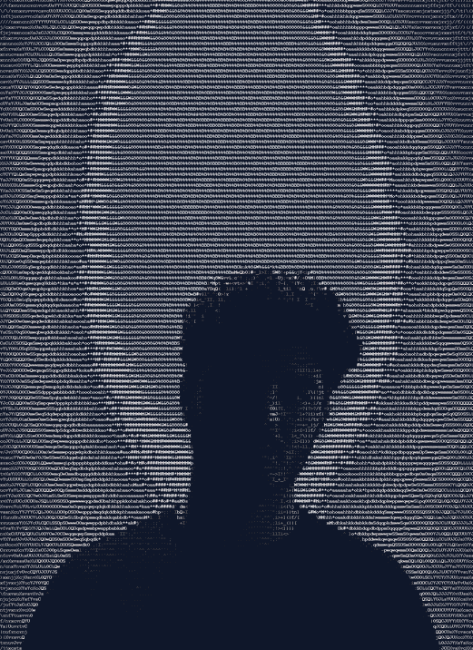
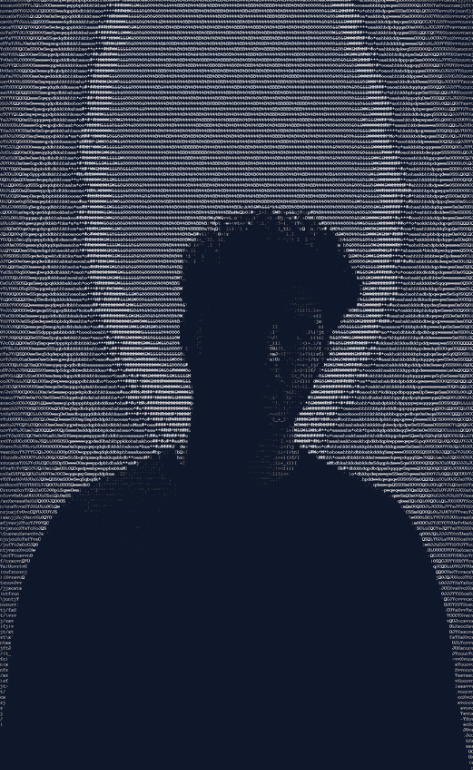
Add macOS window controls header and refine ASCII portrait cropping height

diff --git a/README.md b/README.md
@@ -1,6 +1,13 @@
 <table align="center" width="100%">
 <tr>
-<td width="42%" align="center" valign="top">
+<td colspan="2">
+<p align="left">
+&nbsp;🔴 &nbsp;🟡 &nbsp;🟢 &nbsp;&nbsp;&nbsp;<code>baranberke@itu-station ~ developer-profile</code>
+</p>
+</td>
+</tr>
+<tr>
+<td width="42%" align="center" valign="middle">
 <img src="./ascii_portrait.png" width="100%" alt="Baran Berke - ASCII Portrait" />
 </td>
 <td width="58%" valign="top">
